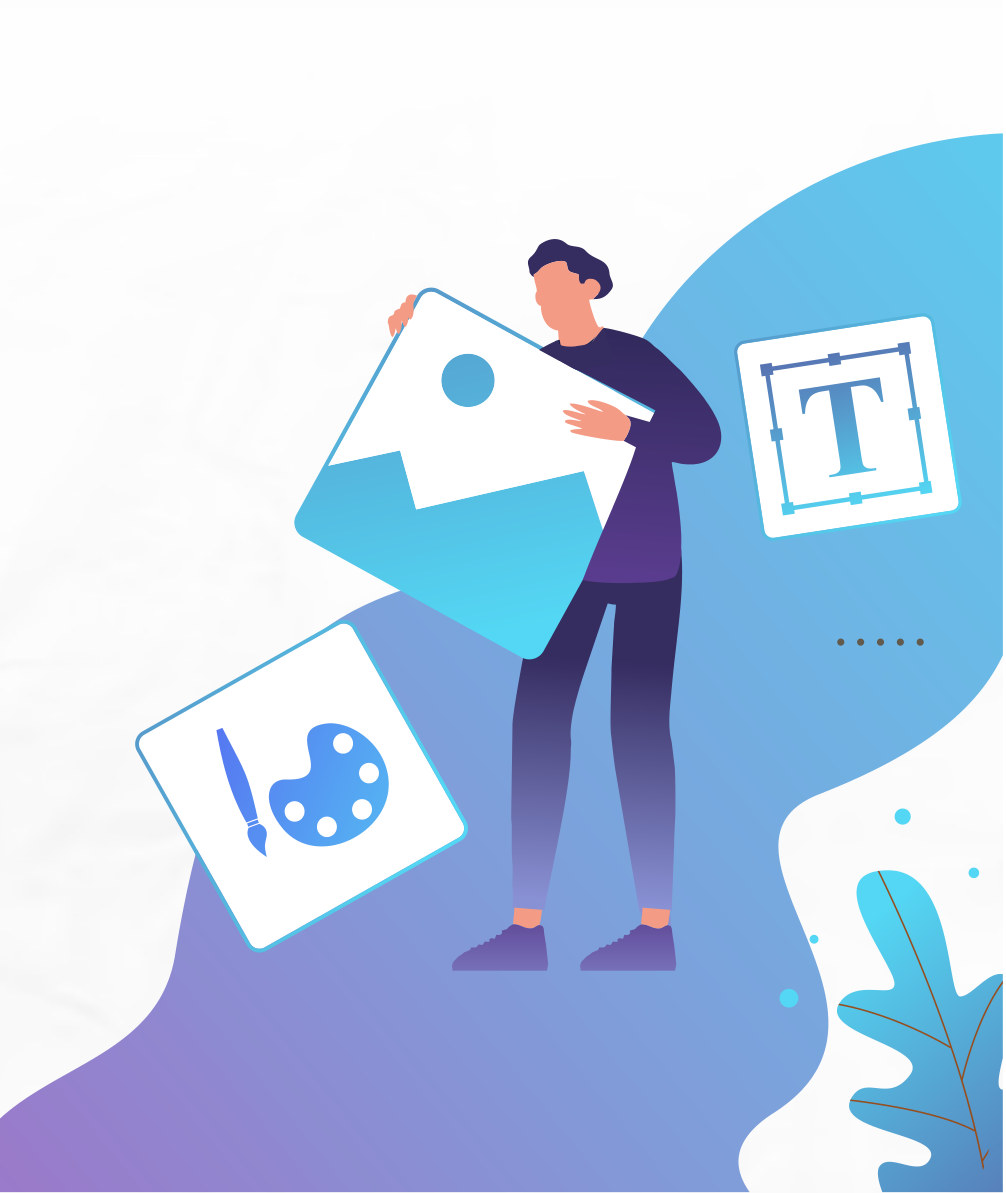
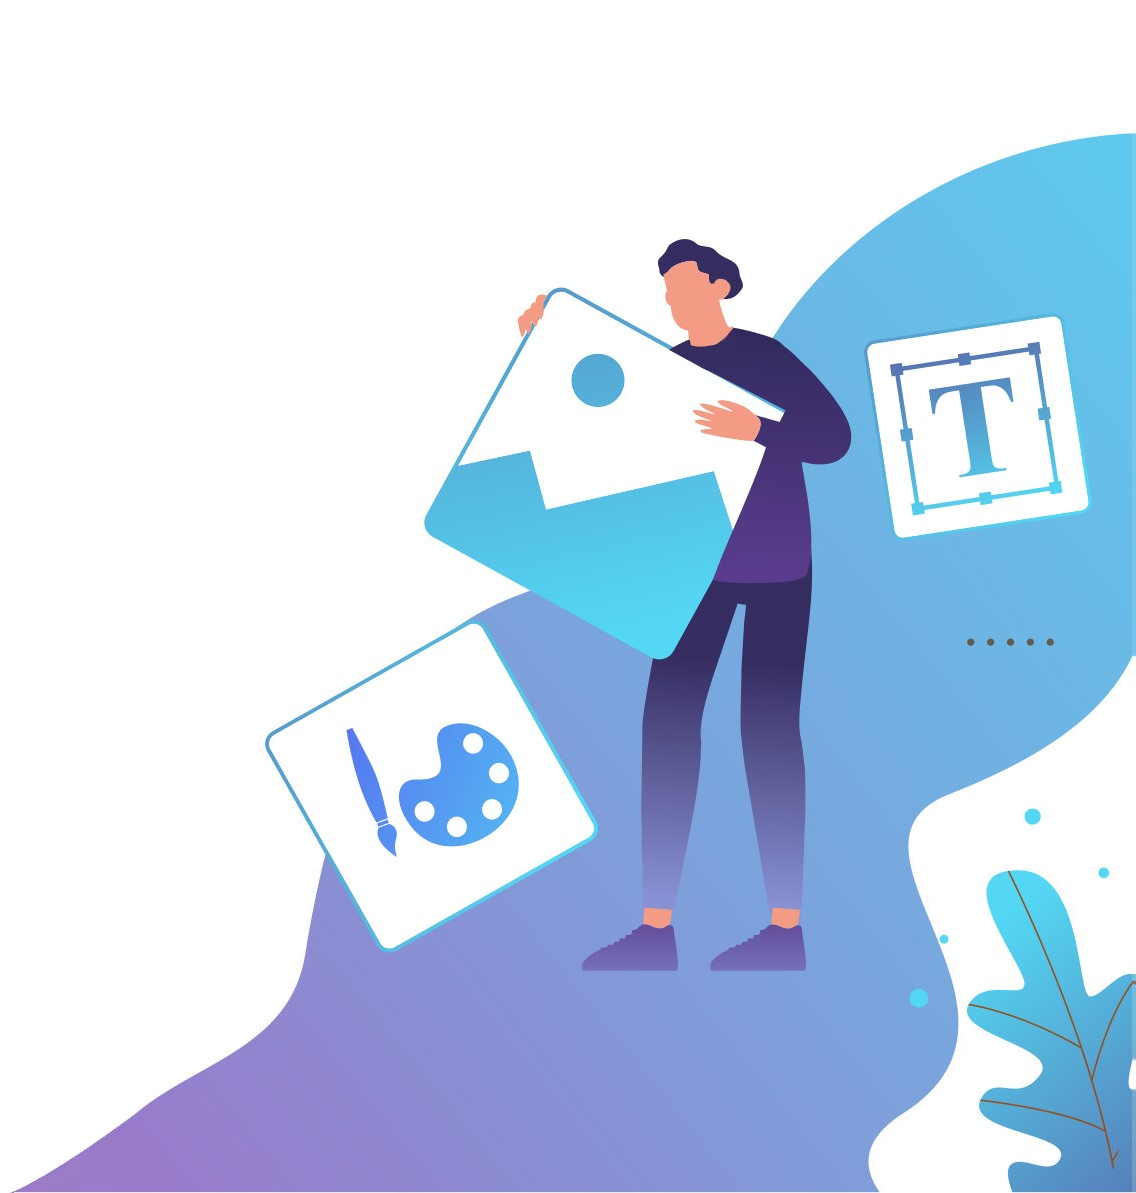
Align hero artwork flush right without blurry edge masks and extend left wave seamlessly

diff --git a/src/styles.css b/src/styles.css
@@ -105,18 +105,20 @@ button, .btn, .chip, .icon-btn, .gallery button, .cert-app, .certs__dot, .card, 
 .nav__toggle[aria-expanded="true"] span:first-child { top: 19px; transform: rotate(45deg); }
 .nav__toggle[aria-expanded="true"] span:last-child { top: 19px; transform: rotate(-45deg); }
 
-/* Hero (Versi Lama Bersih + Skala Fleksibel) */
-.hero { padding: 120px 0 64px; overflow: hidden; background: radial-gradient(circle at 10% 20%, #fff 0, var(--bg) 60%); }
-.hero__inner { display: grid; grid-template-columns: minmax(0, 1fr) minmax(0, 1.08fr); align-items: center; gap: clamp(2rem, 4vw, 4.5rem); }
+/* Hero (Pas Kanan & Bawah Tanpa Blur Putih) */
+.hero { padding: 66px 0 0; overflow: hidden; background: #ffffff; }
+.hero__inner { display: grid; grid-template-columns: minmax(0, 1fr) minmax(0, 1.06fr); align-items: stretch; gap: clamp(2rem, 4vw, 4rem); }
+.hero__text { align-self: center; padding: 64px 0 88px; }
 .hero h1 { font-weight: 800; font-size: clamp(2.6rem, 5.5vw, 4.8rem); line-height: 1.05; color: #46464b; margin: .2rem 0 1rem; }
 .hero h1 span { display: block; font-size: .55em; font-weight: 700; margin-top: .3rem; }
 .hero__lead { max-width: 35rem; color: var(--muted); margin-bottom: 2rem; font-family: "Montserrat", sans-serif; font-size: clamp(.94rem, 1.08vw, 1.06rem); }
 .hero__cta { display: flex; gap: 1rem; flex-wrap: wrap; }
-.hero__art { display: flex; justify-content: flex-end; }
+.hero__art {
+  display: flex; align-items: flex-end; justify-content: flex-end;
+  margin-right: calc(-1 * var(--pad-x));
+}
 .hero__art img {
-  width: 100%; max-width: 660px; mix-blend-mode: multiply;
-  -webkit-mask-image: linear-gradient(to right, transparent 0, #000 12%, #000 94%, transparent 100%);
-  mask-image: linear-gradient(to right, transparent 0, #000 12%, #000 94%, transparent 100%);
+  width: 100%; max-width: 740px; display: block;
 }
 
 /* About (Versi Sebelumnya + LinkedIn & Deskripsi BSI) */
@@ -530,8 +532,9 @@ button, .btn, .chip, .icon-btn, .gallery button, .cert-app, .certs__dot, .card, 
 @media (max-width: 900px) {
   .hero__inner, .about__inner, .journey__grid { grid-template-columns: 1fr; }
   .tools__grid { grid-template-columns: repeat(2, 1fr); }
-  .hero { padding-top: 110px; }
-  .hero__art { order: -1; max-width: 420px; margin-inline: auto; }
+  .hero { padding: 96px 0 36px; }
+  .hero__text { padding: 0; }
+  .hero__art { order: -1; margin-right: 0; max-width: 420px; margin-inline: auto; justify-content: center; }
   .about__photo { max-width: 340px; margin-inline: auto; }
 }
 
